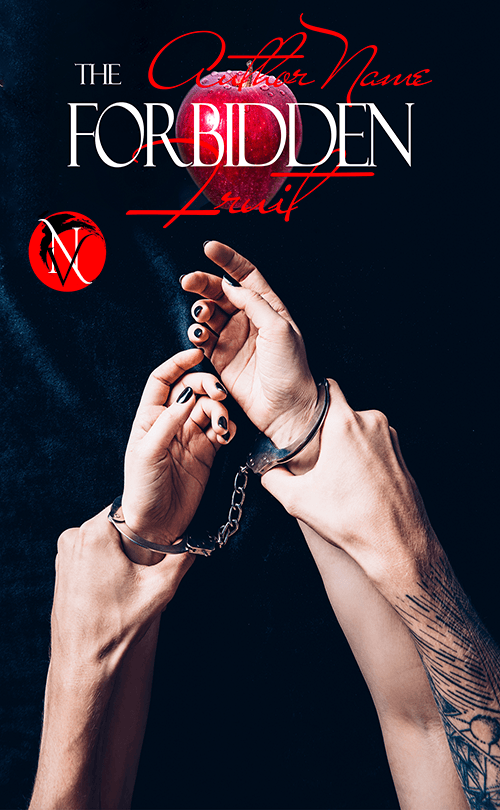
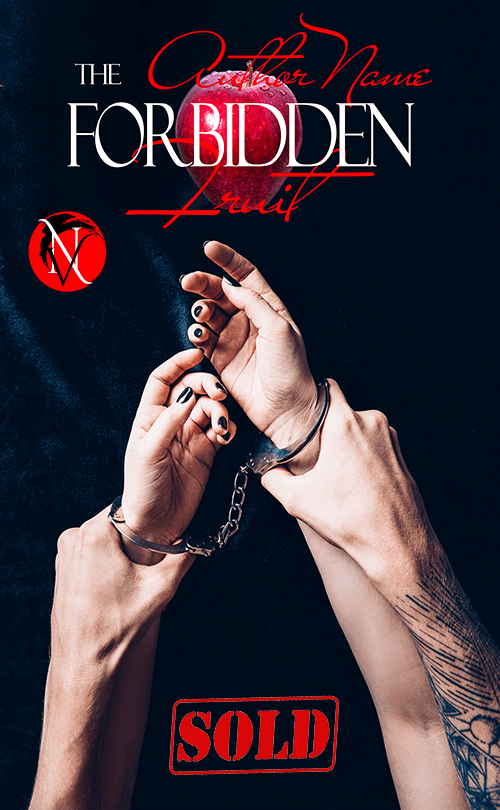
okay

Changed region(s): [[0.33, 0.8333, 0.69, 0.9568]]

diff --git a/works/_premades/stripper.md b/works/_premades/stripper.md
@@ -1,0 +1,9 @@
+--- 
+title: "The Strippers secret"
+description:
+price: "SOLD"
+category: 
+images: 
+    - /assets/img/stripper.png
+order: 528
+---

diff --git a/works/_premades/bitten.md b/works/_premades/bitten.md
@@ -1,0 +1,9 @@
+--- 
+title: "Bitten at Midnight"
+description:
+price: "SOLD"
+category: 
+images: 
+    - /assets/img/bitten.png
+order: 526
+---

diff --git a/works/_premades/taleofdeath.md b/works/_premades/taleofdeath.md
@@ -1,0 +1,9 @@
+--- 
+title: "Tale of Death"
+description:
+price: "SOLD"
+category: 
+images: 
+    - /assets/img/taleofdeath.png
+order: 531
+---

diff --git a/works/_premades/realms.md b/works/_premades/realms.md
@@ -1,0 +1,9 @@
+--- 
+title: "Queen of Realms"
+description:
+price: "SOLD"
+category: 
+images: 
+    - /assets/img/stripper.png
+order: 529
+---

diff --git a/works/_premades/return.md b/works/_premades/return.md
@@ -1,0 +1,9 @@
+--- 
+title: "Please Return"
+description:
+price: "SOLD"
+category: 
+images: 
+    - /assets/img/stripper.png
+order: 530
+---

diff --git a/works/_premades/fae.md b/works/_premades/fae.md
@@ -1,0 +1,9 @@
+--- 
+title: "Keeper of the Fae"
+description:
+price: "SOLD"
+category: 
+images: 
+    - /assets/img/fae.png
+order: 527
+---

diff --git a/works/_premades/stone.md b/works/_premades/stone.md
@@ -1,0 +1,9 @@
+--- 
+title: "Stone Carrier"
+description:
+price: "SOLD"
+category: 
+images: 
+    - /assets/img/Stone.png
+order: 532
+---

diff --git a/works/_premades/taleofus.md b/works/_premades/taleofus.md
@@ -1,0 +1,9 @@
+--- 
+title: "Tale of Us"
+description:
+price: "SOLD"
+category: 
+images: 
+    - /assets/img/taleofus.png
+order: 533
+---
